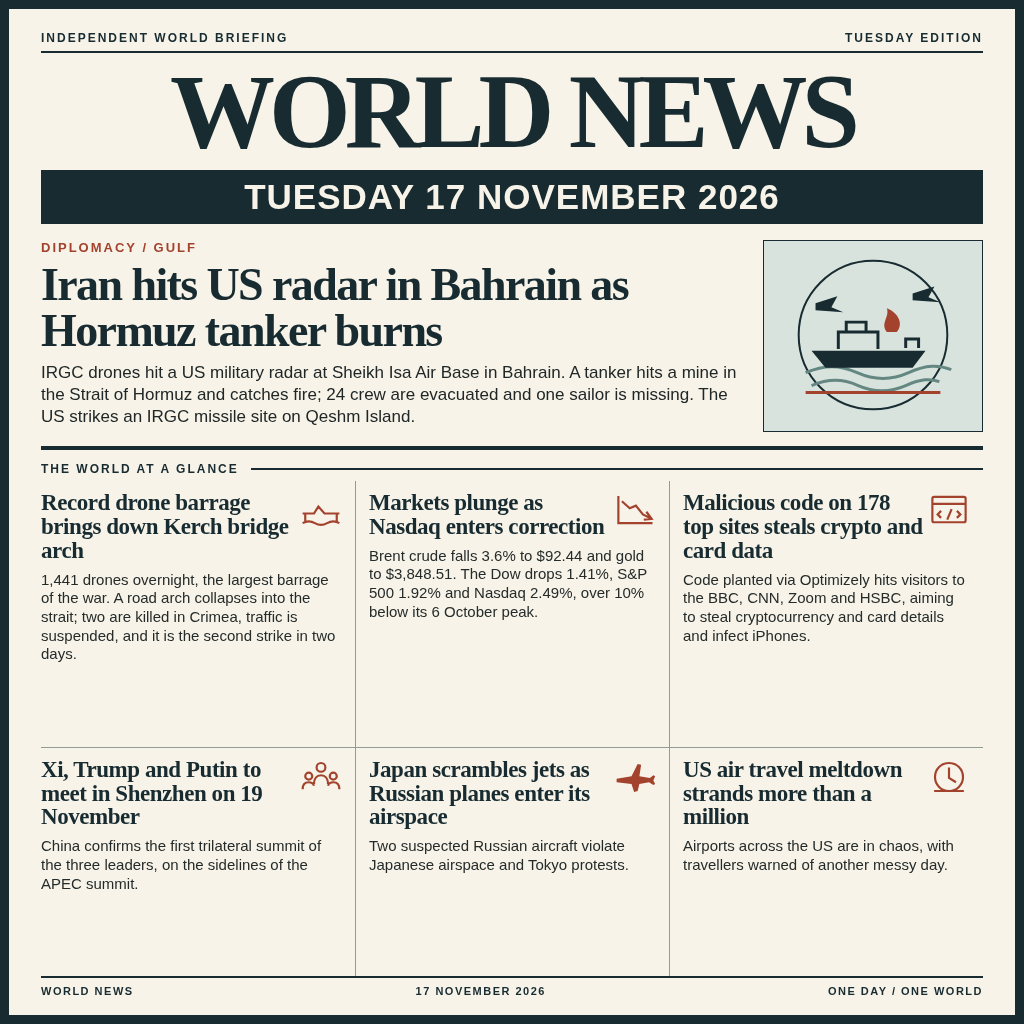
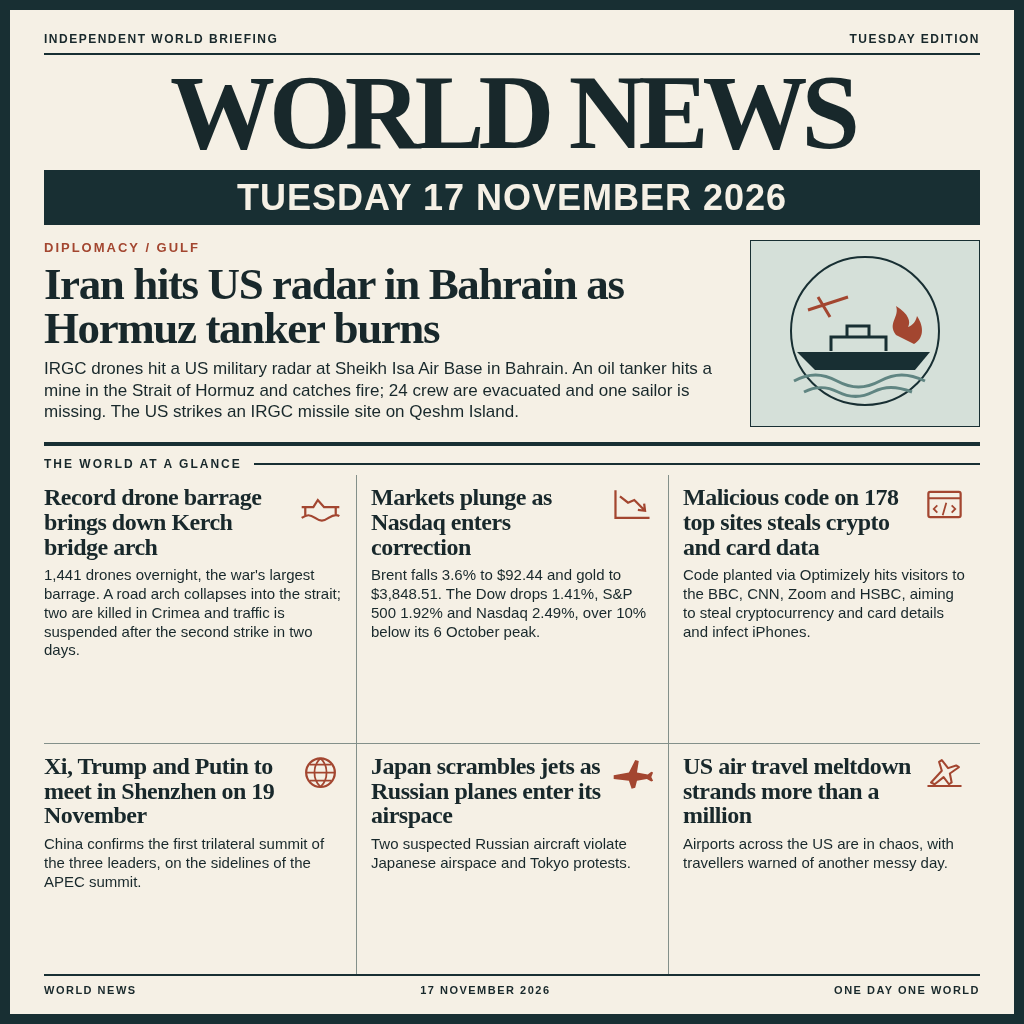
World news 17 November 2026

diff --git a/news.html b/news.html
@@ -1,11 +1,17 @@
 <!doctype html>
-<html lang="en"><head><meta charset="utf-8"><title>World News — 17 November 2026</title><style>
-*{box-sizing:border-box}html,body{margin:0;width:1024px;height:1024px;overflow:hidden}body{font-family:Georgia,serif;background:#ece8dc;color:#172b30}.paper{height:1024px;padding:22px 32px 18px;border:9px solid #172b30;background:#f7f3e9;display:flex;flex-direction:column}.top{display:flex;justify-content:space-between;border-bottom:2px solid #172b30;padding-bottom:6px;font:700 12px Arial,sans-serif;letter-spacing:2px;text-transform:uppercase}.mast{text-align:center;font-weight:900;font-size:105px;letter-spacing:-6px;line-height:1;margin:6px 0}.date{background:#172b30;color:#f7f3e9;text-align:center;font:900 35px/1.2 Arial,sans-serif;letter-spacing:1px;padding:6px}.lead{display:grid;grid-template-columns:1fr 220px;gap:20px;padding:16px 0 14px;border-bottom:4px solid #172b30}.eyebrow{font:800 13px Arial,sans-serif;letter-spacing:2px;color:#a3432e;text-transform:uppercase}.lead h1{font-size:46px;line-height:.99;letter-spacing:-1.6px;margin:7px 0 9px}.lead p{font:17px/1.28 Arial,sans-serif;margin:0;color:#202726}.art{background:#d8e3dd;border:1px solid #172b30;display:flex;align-items:center;justify-content:center}.section{display:flex;align-items:center;gap:12px;margin:12px 0 5px;font:800 12px Arial,sans-serif;letter-spacing:2px;text-transform:uppercase}.section:after{content:'';height:2px;background:#172b30;flex:1}.grid{display:grid;grid-template-columns:repeat(3,1fr);flex:1}.story{padding:10px 13px 10px 0;border-bottom:1px solid #929b94}.story:nth-child(3n+2),.story:nth-child(3n+3){padding-left:13px;border-left:1px solid #929b94}.story:nth-child(n+4){border-bottom:0}.story-top{display:flex;justify-content:space-between;align-items:flex-start;gap:5px}.story h2{font-size:23px;line-height:1.04;letter-spacing:-.45px;margin:0}.story p{font:15px/1.24 Arial,sans-serif;margin:8px 0 0;color:#252b29}.icon{width:42px;height:38px;flex:none;color:#a3432e}.footer{border-top:2px solid #172b30;padding-top:7px;display:flex;justify-content:space-between;font:700 11px Arial,sans-serif;letter-spacing:1.5px;text-transform:uppercase}
-</style></head><body><main class="paper"><div class="top"><span>Independent world briefing</span><span>Tuesday edition</span></div><div class="mast">WORLD NEWS</div><div class="date">TUESDAY 17 NOVEMBER 2026</div><section class="lead"><div><div class="eyebrow">Diplomacy / Gulf</div><h1>Iran hits US radar in Bahrain as Hormuz tanker burns</h1><p>IRGC drones hit a US military radar at Sheikh Isa Air Base in Bahrain. A tanker hits a mine in the Strait of Hormuz and catches fire; 24 crew are evacuated and one sailor is missing. The US strikes an IRGC missile site on Qeshm Island.</p></div><div class="art" aria-hidden="true"><svg viewBox="0 0 220 190" width="220" height="190" fill="none"><circle cx="110" cy="94" r="75" stroke="#172b30" stroke-width="2"/><path d="M42 132c19-8 34-8 52 0s34 8 52 0 30-8 43-3M48 145c17-7 31-7 47 0s32 7 48 0 25-7 34-4" stroke="#648782" stroke-width="3"/><path d="M48 110h115l-13 17H62z" fill="#172b30"/><path d="M75 108V91h40v17m-32-17V81h20v10m40 16v-9h13v9" stroke="#172b30" stroke-width="3"/><path d="M124 91c-7-9 3-15 0-24 12 5 17 16 10 24" fill="#a3432e"/><path d="M52 62l22-7-6 11 12 5-28-2zM150 52l22-7-6 11 12 5-28-2z" fill="#172b30"/><path d="M42 152h136" stroke="#a3432e" stroke-width="3"/></svg></div></section><div class="section">The world at a glance</div><div class="grid">
-<article class="story"><div class="story-top"><h2>Record drone barrage brings down Kerch bridge arch</h2><svg class="icon" viewBox="0 0 48 42" fill="none"><path d="M3 25h13l5-8 7 8h17M6 25v9m36-9v9M3 36c5-3 9-3 14 0s9 3 14 0 9-3 14 0" stroke="currentColor" stroke-width="2.5"/></svg></div><p>1,441 drones overnight, the largest barrage of the war. A road arch collapses into the strait; two are killed in Crimea, traffic is suspended, and it is the second strike in two days.</p></article>
-<article class="story"><div class="story-top"><h2>Markets plunge as Nasdaq enters correction</h2><svg class="icon" viewBox="0 0 48 42" fill="none"><path d="M5 5v31h39M9 11l9 8 7-3 8 10 10 5m-6-8 6 8-9 1" stroke="currentColor" stroke-width="2.5"/></svg></div><p>Brent crude falls 3.6% to $92.44 and gold to $3,848.51. The Dow drops 1.41%, S&amp;P 500 1.92% and Nasdaq 2.49%, over 10% below its 6 October peak.</p></article>
-<article class="story"><div class="story-top"><h2>Malicious code on 178 top sites steals crypto and card data</h2><svg class="icon" viewBox="0 0 48 42" fill="none"><rect x="5" y="6" width="38" height="29" rx="2" stroke="currentColor" stroke-width="2.5"/><path d="M5 14h38M15 22l-4 4 4 4m18-8 4 4-4 4m-6-10-5 12" stroke="currentColor" stroke-width="2.5"/></svg></div><p>Code planted via Optimizely hits visitors to the BBC, CNN, Zoom and HSBC, aiming to steal cryptocurrency and card details and infect iPhones.</p></article>
-<article class="story"><div class="story-top"><h2>Xi, Trump and Putin to meet in Shenzhen on 19 November</h2><svg class="icon" viewBox="0 0 48 42" fill="none"><circle cx="24" cy="10" r="5" stroke="currentColor" stroke-width="2.5"/><circle cx="10" cy="20" r="4" stroke="currentColor" stroke-width="2.5"/><circle cx="38" cy="20" r="4" stroke="currentColor" stroke-width="2.5"/><path d="M16 29c0-6 3-10 8-10s8 4 8 10M3 35c0-5 2-8 7-8 3 0 5 1 6 4m29 4c0-5-2-8-7-8-3 0-5 1-6 4" stroke="currentColor" stroke-width="2.5"/></svg></div><p>China confirms the first trilateral summit of the three leaders, on the sidelines of the APEC summit.</p></article>
+<html lang="en"><head><meta charset="utf-8"><title>World News — 17 November 2026</title>
+<style>
+*{box-sizing:border-box}html,body{margin:0;width:1024px;height:1024px;overflow:hidden}body{font-family:Georgia,'Times New Roman',serif;color:#18282b;background:#f5f0e5}.paper{width:1024px;height:1024px;border:10px solid #182f33;padding:22px 34px 18px;display:flex;flex-direction:column}.topline,.footer{display:flex;justify-content:space-between;text-transform:uppercase;font:700 12px Arial,sans-serif;letter-spacing:1.5px}.topline{border-bottom:2px solid #182f33;padding-bottom:7px}.brand{text-align:center;font-weight:900;font-size:105px;line-height:1;letter-spacing:-6px;margin:5px 0}.date{text-align:center;background:#182f33;color:#f5f0e5;font:900 36px/1.2 Arial,sans-serif;letter-spacing:1px;padding:6px}.lead{display:grid;grid-template-columns:1fr 230px;gap:20px;padding:15px 0;border-bottom:4px solid #182f33}.eyebrow{font:800 13px Arial,sans-serif;letter-spacing:2px;color:#a34630;text-transform:uppercase}.lead h1{font-size:45px;line-height:.98;letter-spacing:-1.4px;margin:7px 0 8px}.lead p{font:17px/1.25 Arial,sans-serif;margin:0}.lead-art{background:#d5e0d9;border:1px solid #182f33;display:flex;align-items:center;justify-content:center}.section{display:flex;align-items:center;gap:12px;margin:11px 0 4px;font:800 12px Arial,sans-serif;letter-spacing:2px;text-transform:uppercase}.section:after{content:'';height:2px;background:#182f33;flex:1}.grid{display:grid;grid-template-columns:repeat(3,1fr);flex:1}.story{padding:10px 14px 8px 0;border-bottom:1px solid #83908a}.story:nth-child(3n+2),.story:nth-child(3n+3){padding-left:14px;border-left:1px solid #83908a}.story:nth-child(n+4){border-bottom:0}.story-top{display:flex;justify-content:space-between;gap:5px;align-items:flex-start}.story h2{font-size:24px;line-height:1.03;letter-spacing:-.5px;margin:0}.story p{font:15px/1.25 Arial,sans-serif;margin:7px 0 0}.icon{width:43px;height:39px;flex:none;color:#a34630}.footer{border-top:2px solid #182f33;padding-top:8px;font-size:11px}
+</style></head><body><main class="paper">
+<div class="topline"><span>Independent world briefing</span><span>Tuesday edition</span></div>
+<div class="brand">WORLD NEWS</div><div class="date">TUESDAY 17 NOVEMBER 2026</div>
+<section class="lead"><div><div class="eyebrow">Diplomacy / Gulf</div><h1>Iran hits US radar in Bahrain as Hormuz tanker burns</h1><p>IRGC drones hit a US military radar at Sheikh Isa Air Base in Bahrain. An oil tanker hits a mine in the Strait of Hormuz and catches fire; 24 crew are evacuated and one sailor is missing. The US strikes an IRGC missile site on Qeshm Island.</p></div>
+<div class="lead-art" aria-hidden="true"><svg width="215" height="185" viewBox="0 0 215 185" fill="none"><circle cx="107" cy="90" r="74" stroke="#182f33" stroke-width="2"/><path d="M39 111h133l-15 18H57z" fill="#182f33"/><path d="M73 110V96h55v14m-39-14V85h22v11" stroke="#182f33" stroke-width="3"/><path d="M36 140c15-8 28-8 43 0s28 8 43 0 28-8 45 0M46 151c12-6 22-6 34 0s23 6 35 0 23-6 39 0" stroke="#608582" stroke-width="3"/><path d="M138 94c-9-12 4-18 0-29 13 8 15 16 12 21 5-2 8-6 9-11 8 12 6 23-3 28" fill="#a34630"/><path d="M50 69l40-13m-30 0 12 20" stroke="#a34630" stroke-width="3"/></svg></div></section>
+<div class="section">The world at a glance</div><div class="grid">
+<article class="story"><div class="story-top"><h2>Record drone barrage brings down Kerch bridge arch</h2><svg class="icon" viewBox="0 0 48 42" fill="none"><path d="M3 24h13l5-8 7 8h17M7 24v9m34-9v9M3 36c6-4 9-4 15 0s9 4 15 0 9-4 12-2" stroke="currentColor" stroke-width="2.5"/></svg></div><p>1,441 drones overnight, the war's largest barrage. A road arch collapses into the strait; two are killed in Crimea and traffic is suspended after the second strike in two days.</p></article>
+<article class="story"><div class="story-top"><h2>Markets plunge as Nasdaq enters correction</h2><svg class="icon" viewBox="0 0 48 42" fill="none"><path d="M5 5v31h38M10 12l9 7 7-3 12 12m-8-1 8 1-1-8" stroke="currentColor" stroke-width="2.5"/></svg></div><p>Brent falls 3.6% to $92.44 and gold to $3,848.51. The Dow drops 1.41%, S&amp;P 500 1.92% and Nasdaq 2.49%, over 10% below its 6 October peak.</p></article>
+<article class="story"><div class="story-top"><h2>Malicious code on 178 top sites steals crypto and card data</h2><svg class="icon" viewBox="0 0 48 42" fill="none"><rect x="6" y="7" width="36" height="28" rx="2" stroke="currentColor" stroke-width="2.5"/><path d="M6 14h36M16 22l-4 4 4 4m16-8 4 4-4 4m-6-11-4 14" stroke="currentColor" stroke-width="2"/></svg></div><p>Code planted via Optimizely hits visitors to the BBC, CNN, Zoom and HSBC, aiming to steal cryptocurrency and card details and infect iPhones.</p></article>
+<article class="story"><div class="story-top"><h2>Xi, Trump and Putin to meet in Shenzhen on 19 November</h2><svg class="icon" viewBox="0 0 48 42" fill="none"><circle cx="24" cy="20" r="16" stroke="currentColor" stroke-width="2.5"/><path d="M8 20h32M24 4c-9 8-9 24 0 32M24 4c9 8 9 24 0 32M12 11h24M12 29h24" stroke="currentColor" stroke-width="2"/></svg></div><p>China confirms the first trilateral summit of the three leaders, on the sidelines of the APEC summit.</p></article>
 <article class="story"><div class="story-top"><h2>Japan scrambles jets as Russian planes enter its airspace</h2><svg class="icon" viewBox="0 0 48 42" fill="none"><path d="M3 23l17-3 7-14 4 1-2 13 12 2 4-3 2 1-2 5 2 4-2 1-5-3-11 2-2 8-4 1-3-9-17-2z" fill="currentColor"/></svg></div><p>Two suspected Russian aircraft violate Japanese airspace and Tokyo protests.</p></article>
-<article class="story"><div class="story-top"><h2>US air travel meltdown strands more than a million</h2><svg class="icon" viewBox="0 0 48 42" fill="none"><circle cx="24" cy="21" r="16" stroke="currentColor" stroke-width="2.5"/><path d="M24 10v12l8 5M7 37h34" stroke="currentColor" stroke-width="2.5"/></svg></div><p>Airports across the US are in chaos, with travellers warned of another messy day.</p></article>
-</div><footer class="footer"><span>World news</span><span>17 November 2026</span><span>One day / one world</span></footer></main></body></html>
+<article class="story"><div class="story-top"><h2>US air travel meltdown strands more than a million</h2><svg class="icon" viewBox="0 0 48 42" fill="none"><path d="M5 35h38M9 31l12-13-3-10 3-2 7 9 9-3 3 2-10 7 2 10-3 2-6-8-10 8z" stroke="currentColor" stroke-width="2.3" stroke-linejoin="round"/></svg></div><p>Airports across the US are in chaos, with travellers warned of another messy day.</p></article>
+</div><div class="footer"><span>World news</span><span>17 November 2026</span><span>One day one world</span></div></main></body></html>

diff --git a/main.ts b/main.ts
@@ -1,7 +1,7 @@
-import { copyFile, mkdir } from 'node:fs/promises';
+import { copyFileSync, mkdirSync } from 'node:fs';
 import { join } from 'node:path';
 import { fileURLToPath } from 'node:url';
 
 const outputDir = process.env.MAKEFUN_OUTPUT_DIR || '/output';
-await mkdir(outputDir, { recursive: true });
-await copyFile(fileURLToPath(new URL('./entry.png', import.meta.url)), join(outputDir, 'entry.png'));
+mkdirSync(outputDir, { recursive: true });
+copyFileSync(fileURLToPath(new URL('./entry.png', import.meta.url)), join(outputDir, 'entry.png'));

diff --git a/README.md b/README.md
@@ -1,8 +1,8 @@
 # World News 17 November 2026
 
-A newspaper-style image summarising seven world news stories from 17 November 2026.
+A one-image newspaper front page summarizing seven world news stories.
 
-Run with Node 22: `node main.ts` (or set `MAKEFUN_OUTPUT_DIR` to choose the output directory).
+Run with Node 22: `node main.ts` (set `MAKEFUN_OUTPUT_DIR` to choose the output directory).
 
 ![Entry](https://make.fun/badge/news-image-20261117.svg)
 ![Rank](https://make.fun/badge/news-image-20261117/mayexxx/world-news-17-nov-2026/rank.svg)
